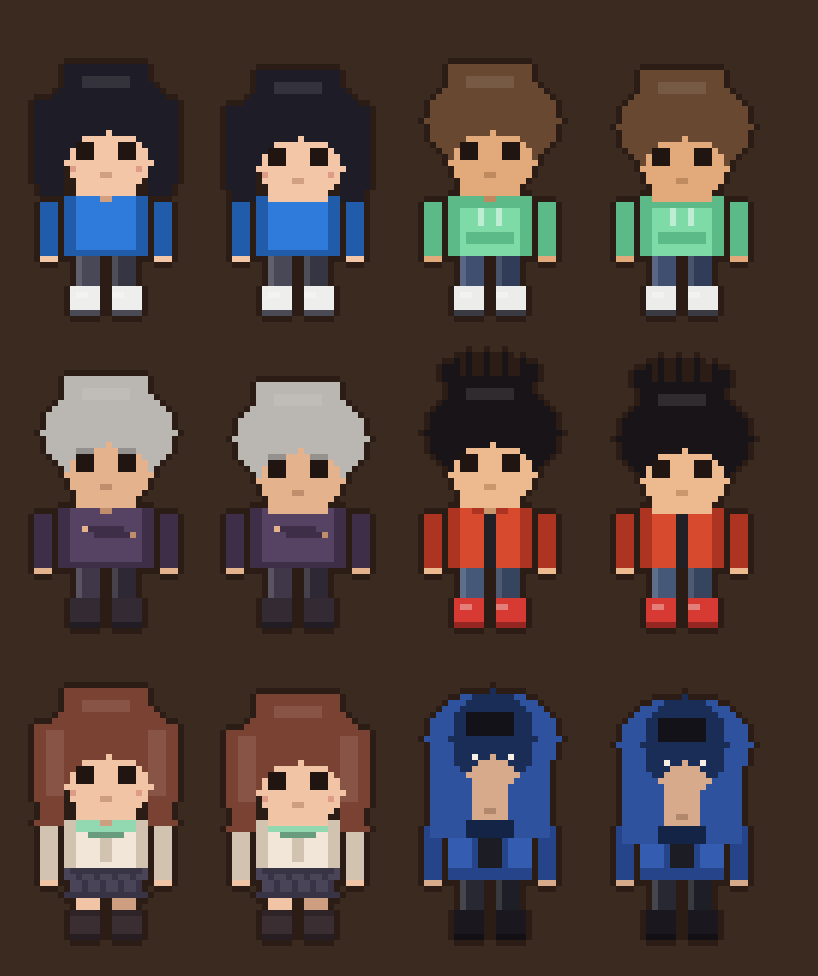
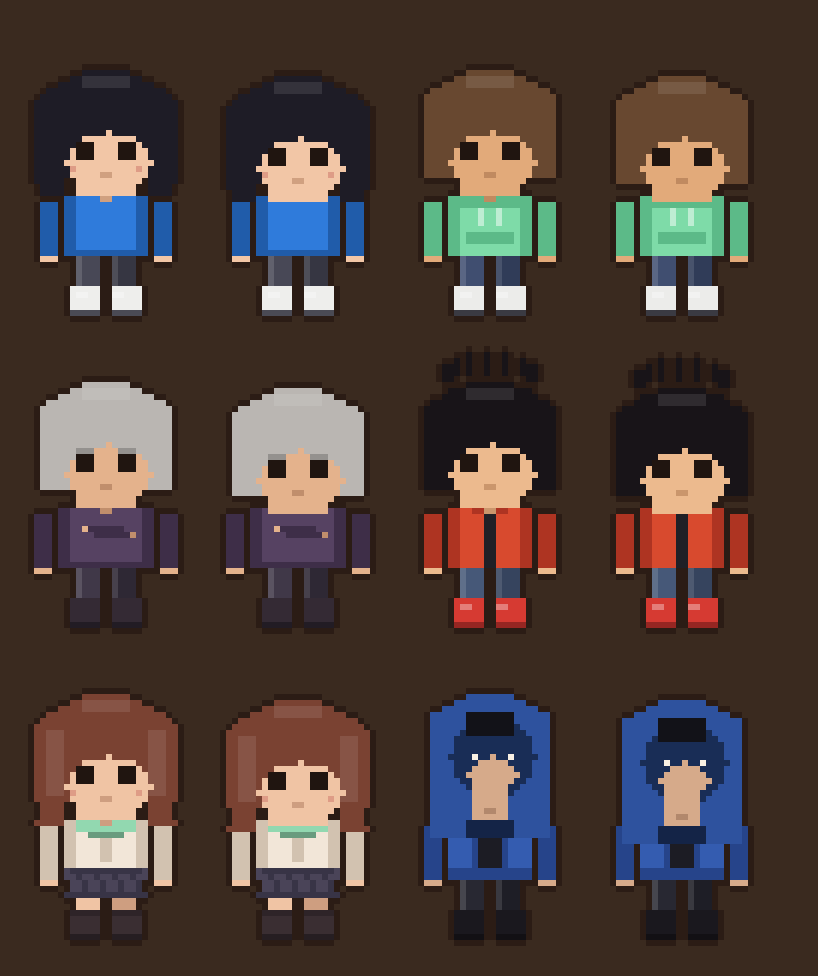
art: 头顶改成低矮圆顶（四行阶梯收圆），保留圆形但不鼓

diff --git a/Tools/make_npc_sprites.py b/Tools/make_npc_sprites.py
@@ -48,9 +48,12 @@ def draw_head(cv, c, rise=0):
 
     if style == 'hood':
         hood = c['hood']
-        cv.ellipse(16, top + 12, 11, 8, hood)               # 兜帽外轮廓（压扁）
+        cv.rect(12, top + 5, 19, top + 5, hood)             # 兜帽也是阶梯圆顶
+        cv.rect(10, top + 6, 21, top + 6, hood)
+        cv.rect(8, top + 7, 23, top + 7, hood)
+        cv.rect(6, top + 8, 25, top + 8, hood)
         cv.rect(6, top + 9, 25, chin + 3, hood)
-        cv.ellipse(16, top + 12, 7, 8, dark(hood, 0.55))    # 帽子里的阴影
+        cv.ellipse(16, top + 15, 7, 7, dark(hood, 0.55))    # 帽子里的阴影（别冒出兜帽顶）
         cv.ellipse(16, top + 18, 4, 3, skin)                # 只露下半张脸
         cv.rect(13, top + 18, 18, chin, skin)
         cv.rect(12, top + 8, 19, top + 11, hair)            # 额前的头发
@@ -61,8 +64,11 @@ def draw_head(cv, c, rise=0):
         return
 
     # 头发外轮廓（所有非兜帽共用）
-    cv.ellipse(16, top + 13, 11, 8, hair)
-    cv.put(16, top - 1, CLEAR)                              # 削掉顶上的单颗像素
+    cv.rect(12, top + 5, 19, top + 5, hair)                 # 阶梯圆顶：圆但不高
+    cv.rect(10, top + 6, 21, top + 6, hair)
+    cv.rect(8, top + 7, 23, top + 7, hair)
+    cv.rect(6, top + 8, 25, top + 8, hair)
+    cv.rect(5, top + 9, 26, chin - 3, hair)
 
     if style == 'long':
         cv.rect(4, top + 10, 8, chin - 3, hair)
@@ -89,7 +95,7 @@ def draw_head(cv, c, rise=0):
 
     # 刘海
     if style == 'spiky':
-        cv.rect(9, top + 4, 22, top + 6, hair)
+        cv.rect(9, top + 6, 22, top + 8, hair)
         for x, y in ((10, top + 1), (12, top), (15, top), (18, top), (21, top + 1)):
             cv.rect(x, y, x, top + 3, hair)
         cv.rect(8, top + 2, 9, top + 4, hair)
@@ -98,18 +104,18 @@ def draw_head(cv, c, rise=0):
         cv.rect(20, top + 7, 22, top + 9, hair)
     elif style == 'grey':
         # 发际线偏高、两侧留短鬓角：像个上了年纪的人
-        cv.rect(9, top + 4, 22, top + 5, hair)
-        cv.rect(9, top + 6, 10, top + 8, hair)
-        cv.rect(21, top + 6, 22, top + 8, hair)
-        cv.rect(15, top + 6, 16, top + 7, hair)             # 中间一小撮
+        cv.rect(9, top + 7, 22, top + 8, hair)
+        cv.rect(9, top + 9, 10, top + 11, hair)
+        cv.rect(21, top + 9, 22, top + 11, hair)
+        cv.rect(15, top + 9, 16, top + 10, hair)            # 中间一小撮
     elif style == 'short':
-        cv.rect(9, top + 4, 22, top + 6, hair)
-        cv.rect(9, top + 7, 11, top + 9, hair)
-        cv.rect(15, top + 7, 22, top + 8, hair)             # 侧分的一缕
+        cv.rect(9, top + 7, 22, top + 8, hair)
+        cv.rect(9, top + 9, 11, top + 11, hair)
+        cv.rect(15, top + 9, 22, top + 10, hair)            # 侧分的一缕
     else:                                                   # bob / long
-        cv.rect(9, top + 4, 22, top + 6, hair)
-        cv.rect(9, top + 7, 11, top + 8, hair)
-        cv.rect(20, top + 7, 22, top + 8, hair)
+        cv.rect(10, top + 7, 21, top + 8, hair)
+        cv.rect(9, top + 9, 11, top + 10, hair)
+        cv.rect(20, top + 9, 22, top + 10, hair)
 
     cv.rect(12, top + 6, 19, top + 7, hair_l)               # 头顶受光
     cv.rect(11, top + 17, 13, top + 19, EYE)                # 左眼 3×3

diff --git a/Tools/make_player_sprite.py b/Tools/make_player_sprite.py
@@ -124,8 +124,12 @@ def draw_head(cv, facing, bob, rise=0):
         cv.put(20, chin - 2, SKIN_D)                        # 嘴
     else:
         if facing == 'down':
-            cv.ellipse(16, top + 13, 11, 8, HAIR)           # 头发外轮廓（压扁，别像爆炸头）
-            cv.put(16, top - 1, CLEAR)                      # 削掉椭圆顶上的单颗像素，不然像天线
+            # 头顶用四行阶梯收成圆弧：顶部是圆的，但整体比原来低
+            cv.rect(12, top + 5, 19, top + 5, HAIR)
+            cv.rect(10, top + 6, 21, top + 6, HAIR)
+            cv.rect(8, top + 7, 23, top + 7, HAIR)
+            cv.rect(6, top + 8, 25, top + 8, HAIR)
+            cv.rect(5, top + 9, 26, chin - 3, HAIR)
             # 两侧长发：上宽下窄，末端往外翘一格，不再是直筒
             cv.rect(4, top + 10, 8, chin - 3, HAIR)
             cv.rect(5, chin - 2, 8, chin + 1, HAIR)
@@ -138,7 +142,7 @@ def draw_head(cv, facing, bob, rise=0):
             cv.ellipse(16, top + 20, 7, 5, SKIN)            # 脸（下半截，上面全是头发）
             cv.rect(11, top + 24, 20, chin, SKIN)           # 下巴补方
             # 不对称刘海：一边长一点，边角收进去
-            cv.rect(8, top + 4, 23, top + 8, HAIR)
+            cv.rect(10, top + 7, 21, top + 8, HAIR)          # 刘海横条（别盖住头顶阶梯）
             cv.rect(9, top + 9, 16, top + 10, HAIR)
             cv.rect(12, top + 11, 18, top + 12, HAIR)
             cv.rect(20, top + 9, 22, top + 10, HAIR)
@@ -149,8 +153,11 @@ def draw_head(cv, facing, bob, rise=0):
             cv.put(10, top + 21, BLUSH)
             cv.put(21, top + 21, BLUSH)
         else:
-            cv.ellipse(16, top + 13, 11, 8, HAIR)           # 背面头发（同样压扁）
-            cv.put(16, top - 1, CLEAR)                      # 同样削掉顶上那一颗
+            cv.rect(12, top + 5, 19, top + 5, HAIR)
+            cv.rect(10, top + 6, 21, top + 6, HAIR)
+            cv.rect(8, top + 7, 23, top + 7, HAIR)
+            cv.rect(6, top + 8, 25, top + 8, HAIR)
+            cv.rect(5, top + 9, 26, chin, HAIR)
             cv.rect(4, top + 10, 27, chin, HAIR)            # 长发盖住脖子
             cv.rect(5, chin + 1, 26, chin + 2, HAIR)        # 发尾收窄
             cv.rect(12, top + 6, 19, top + 7, HAIR_M)       # 头顶受光
